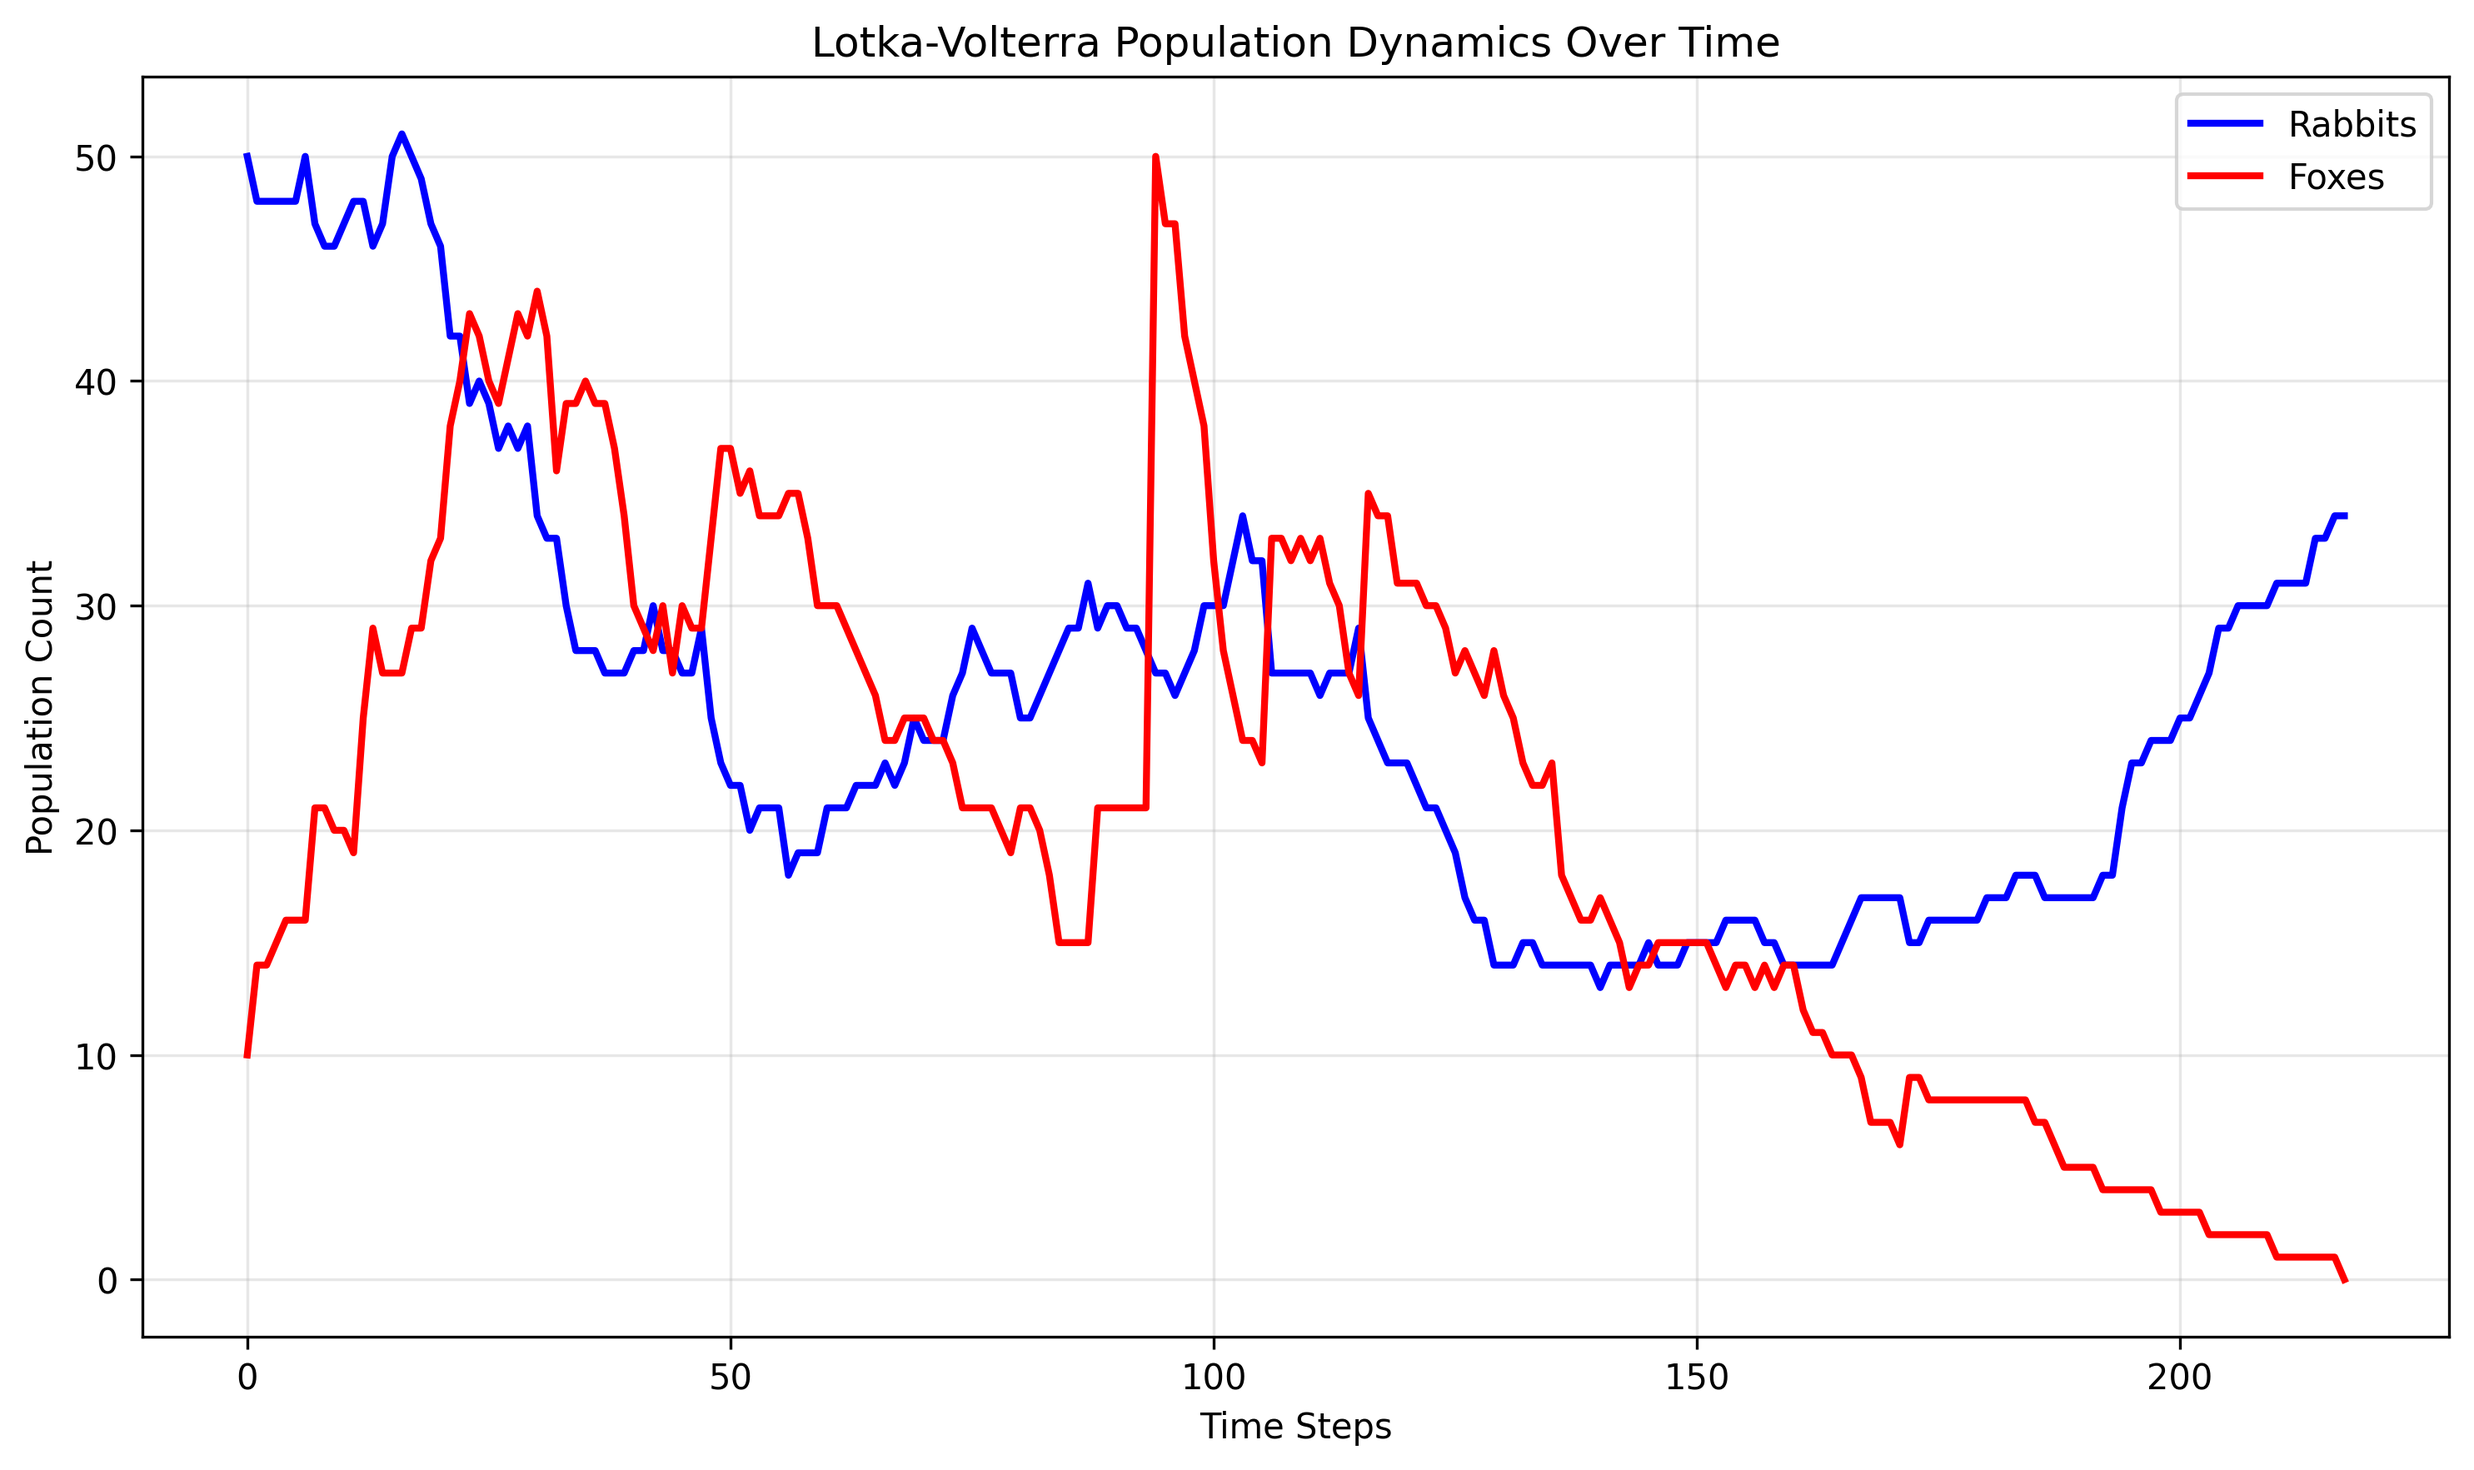
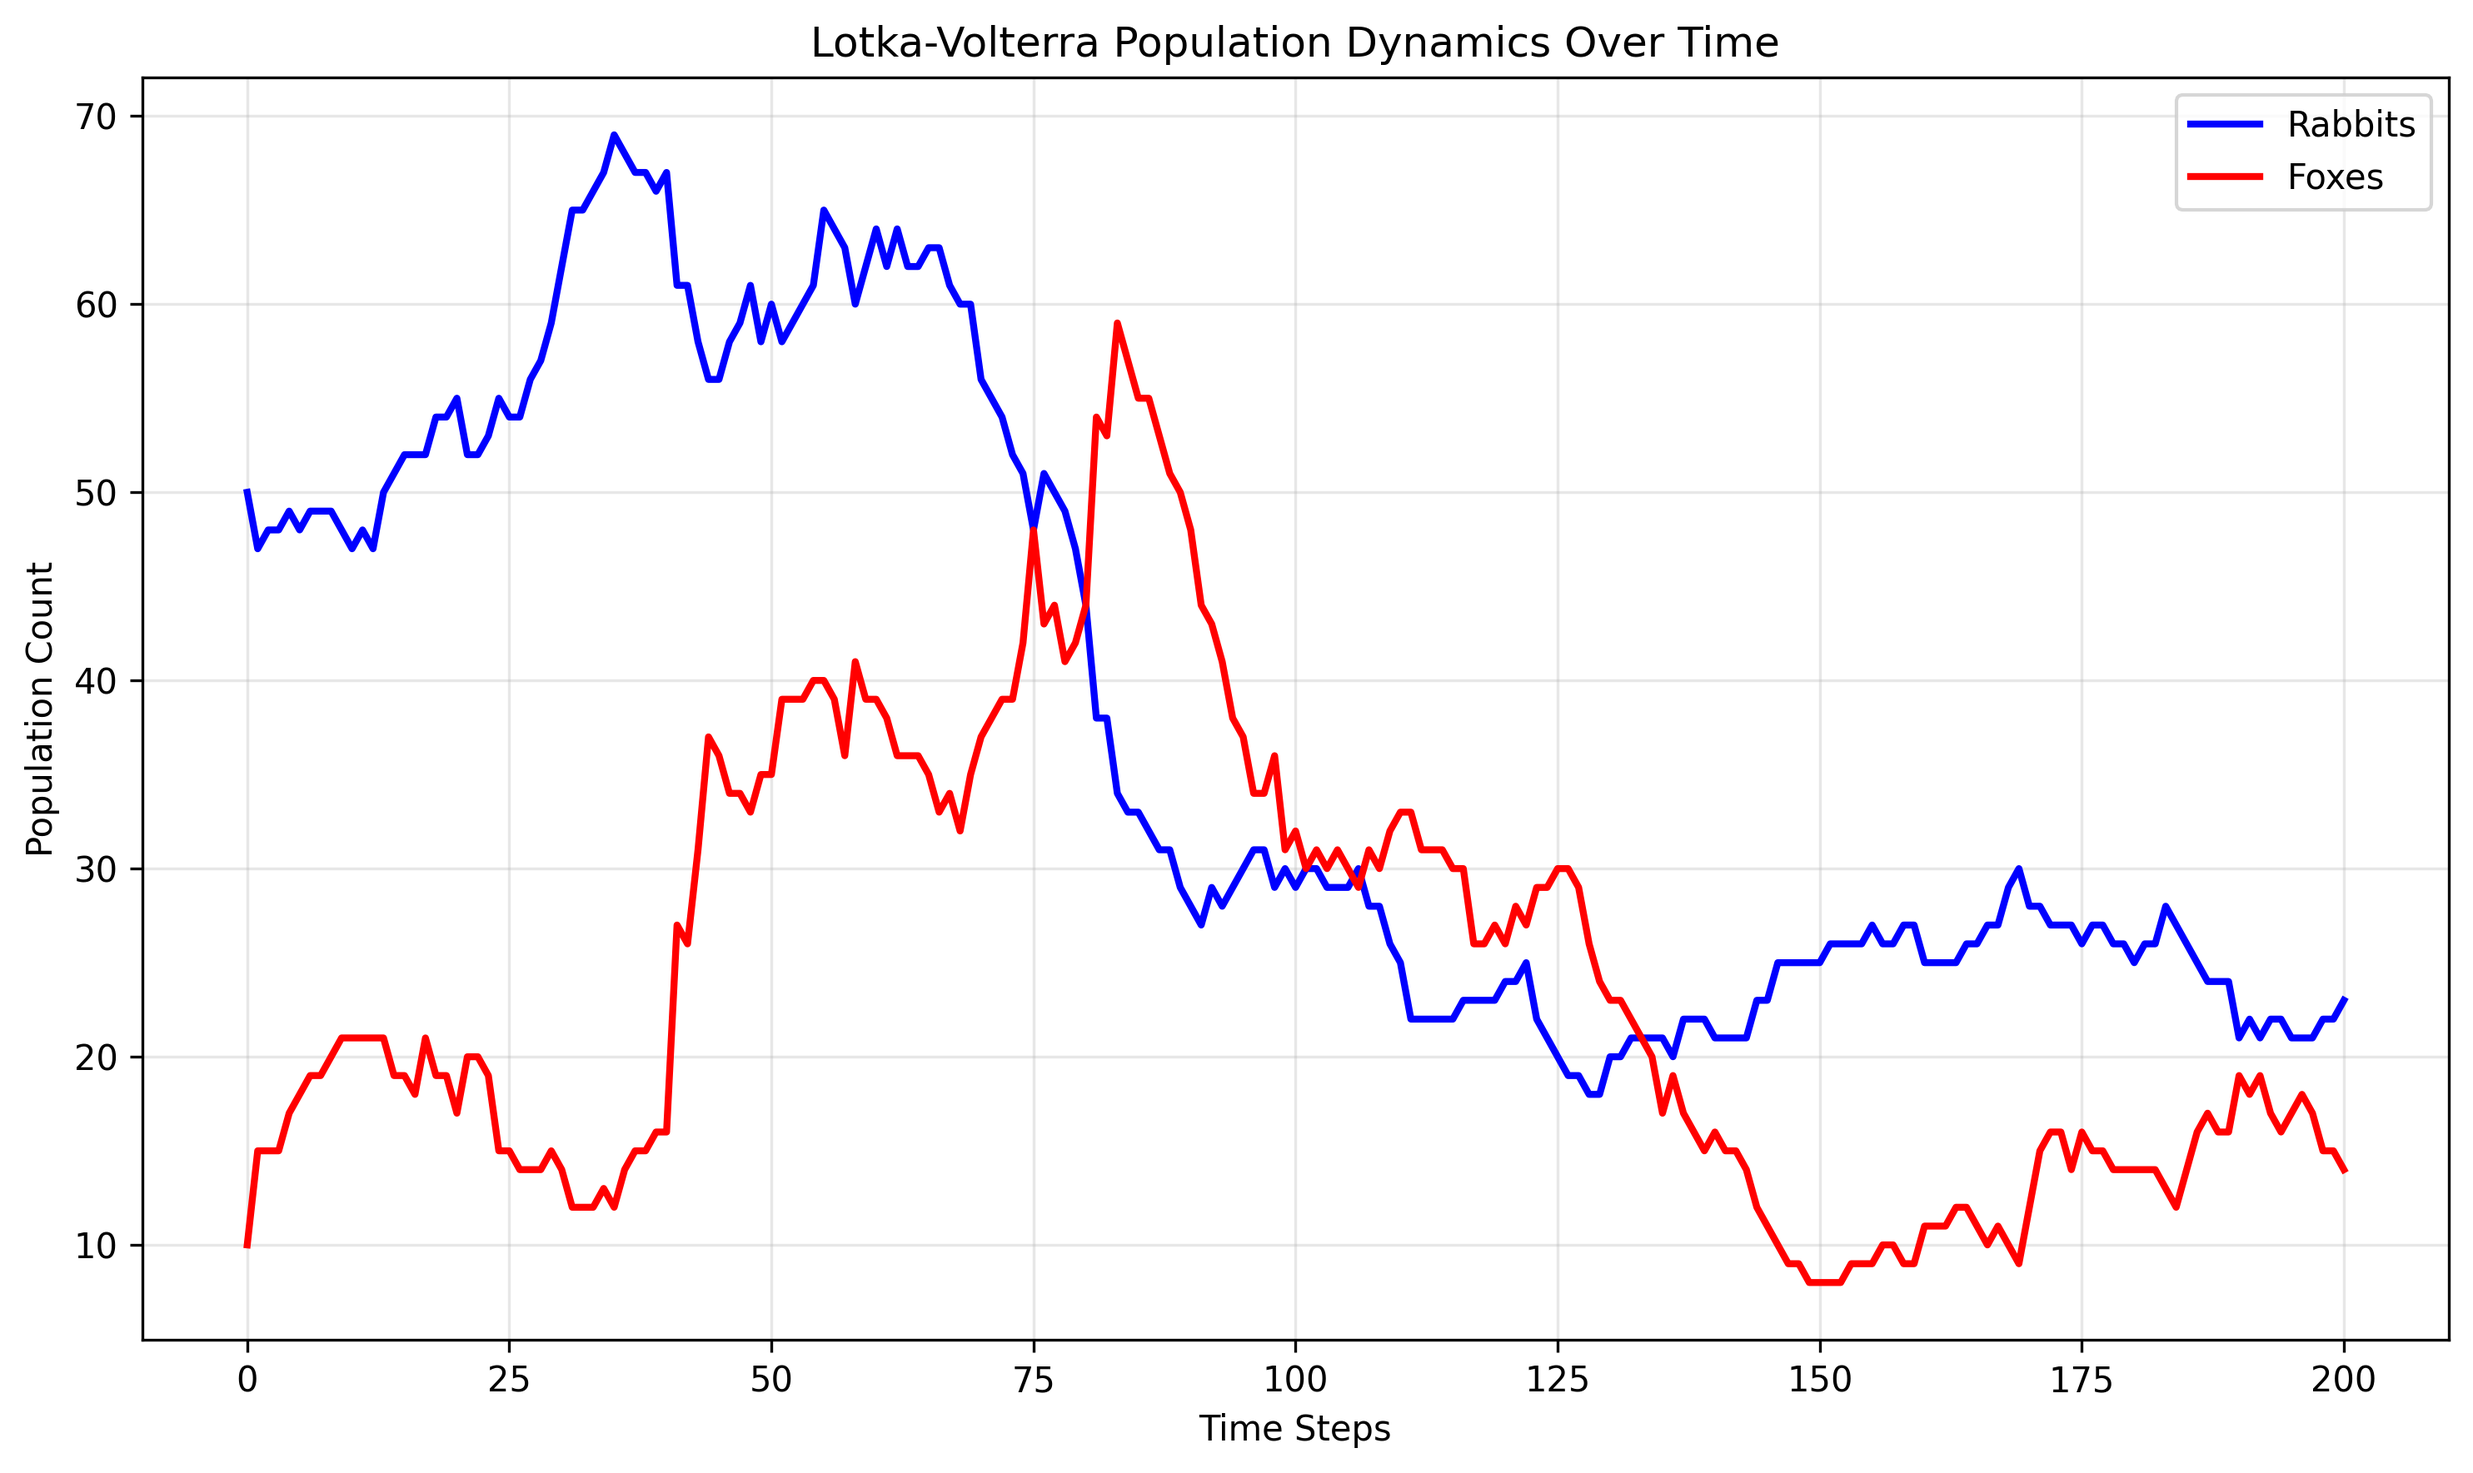
changed fox energy to be configs not hardcoded values reduced duration (took a while can be changed back)

diff --git a/Assignment_2/competetive.py b/Assignment_2/competetive.py
@@ -11,6 +11,8 @@ class LotkaVolterraConfig(Config):
     fox_hunt_radius: float = 10
     movement_speed: float = 2.0
     rabbit_reproduction_prob: float = 0.005
+    fox_start_energy: int = 300
+    fox_energy_gain_on_eat: int = 150
 
 class PopulationTracker:
     def __init__(self):
@@ -86,12 +88,6 @@ class Rabbit(Agent):
         self.move = Vector2(1, 0).rotate(angle) * self.config.movement_speed
         
     def change_position(self):
-        if not hasattr(self, 'species'):
-            self.species = "rabbit"
-        if not hasattr(self, 'move'):
-            angle = random.uniform(0, 360)
-            self.move = Vector2(1, 0).rotate(angle) * self.config.movement_speed
-            
         # Move randomly
         if random.random() < 0.1:
             self.move = self.move.rotate(random.uniform(-30, 30))
@@ -107,23 +103,15 @@ class Fox(Agent):
     def __init__(self, images, simulation, pos=None, move=None):
         super().__init__(images, simulation, pos, move)
         self.species = "fox"
-        self.energy = 300
+        self.energy = self.config.fox_start_energy
         
     def starting(self):
         self.species = "fox"
-        self.energy = 300
+        self.energy = self.config.fox_start_energy
         angle = random.uniform(0, 360)
         self.move = Vector2(1, 0).rotate(angle) * self.config.movement_speed
         
     def change_position(self):
-        if not hasattr(self, 'species'):
-            self.species = "fox"
-        if not hasattr(self, 'energy'):
-            self.energy = 300
-        if not hasattr(self, 'move'):
-            angle = random.uniform(0, 360)
-            self.move = Vector2(1, 0).rotate(angle) * self.config.movement_speed
-            
         # Check for random death FIRST
         if random.random() < self.config.fox_death_prob:
             self.kill()
@@ -136,7 +124,7 @@ class Fox(Agent):
             if hasattr(agent, 'species') and agent.species == "rabbit":
                 if distance <= self.config.fox_hunt_radius:
                     agent.kill()
-                    self.energy += 150
+                    self.energy += self.config.fox_energy_gain_on_eat
                     self.reproduce()
                     break
         
@@ -187,7 +175,9 @@ if __name__ == "__main__":
         fox_death_prob=0.01,
         fox_hunt_radius=40,
         rabbit_reproduction_prob=0.005,
-        duration=2000
+        duration=1000,
+        fox_start_energy=300,
+        fox_energy_gain_on_eat=150
     )
     
     simulation = LotkaVolterraSimulation(config)
